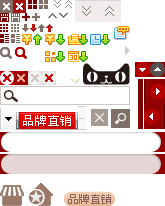
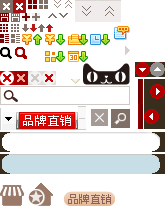
search bar

diff --git a/Friday.mvc/apps/tmallsearch/1.0/mods/crumb.css b/Friday.mvc/apps/tmallsearch/1.0/mods/crumb.css
@@ -1,4 +1,4 @@
[1 lines of base64/hex data omitted]
+.crumb{height:30px;background:#8e0000 url("http://localhost:7525/Images/search_bar_background.png");margin-bottom:10px}
 .crumbCon{width:990px;margin:0 auto;line-height:27px;position:relative;z-index:10001}
 .crumbSlide-con .crumbTitle{color:#b0a59f}
 .crumbSlide{height:30px;margin-left:25px;margin-right:180px;position:relative}
@@ -13,7 +13,7 @@
 .crumbSlide-prev-shadow{background-position:-138px -79px;left:-2px}
 .crumbSlide-next-shadow{background-position:-138px -104px;right:-2px}
 .crumbSlide-attr{cursor:pointer;position:relative}
-.crumbArrow{color:#af4a4a;margin-left:3px;font-style:normal;font-family:\5b8b\4f53;vertical-align:middle;margin-top:2px;display:inline-block}
+.crumbArrow{color:rgb(200,222,230);margin-left:3px;font-style:normal;font-family:\5b8b\4f53;vertical-align:middle;margin-top:2px;display:inline-block}
 .crumbSlide-con a{color:#fff}
 .crumbSlide-con a:hover{color:#f2dcc7}
 .crumbDelete{position:relative;top:3px;*top:0;_margin-top:4px;display:inline-block;width:14px;height:14px;overflow:hidden;background-position:-14px -71px}
